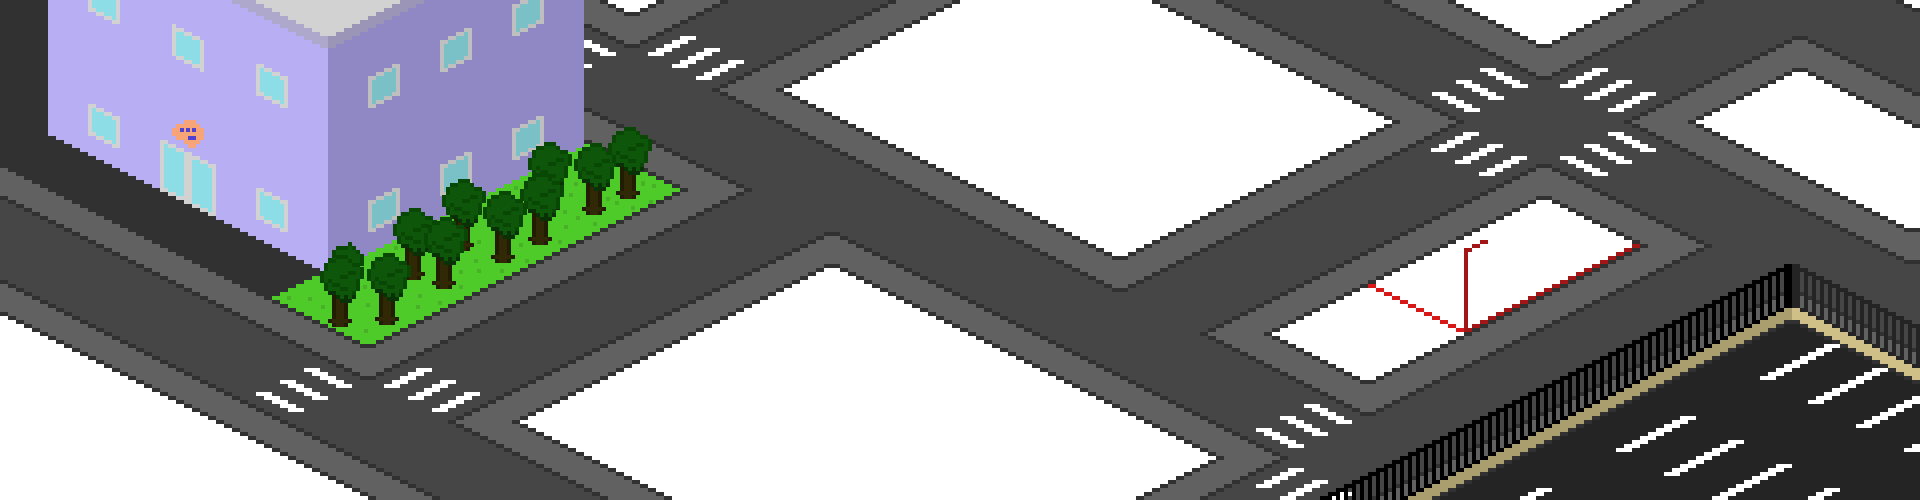
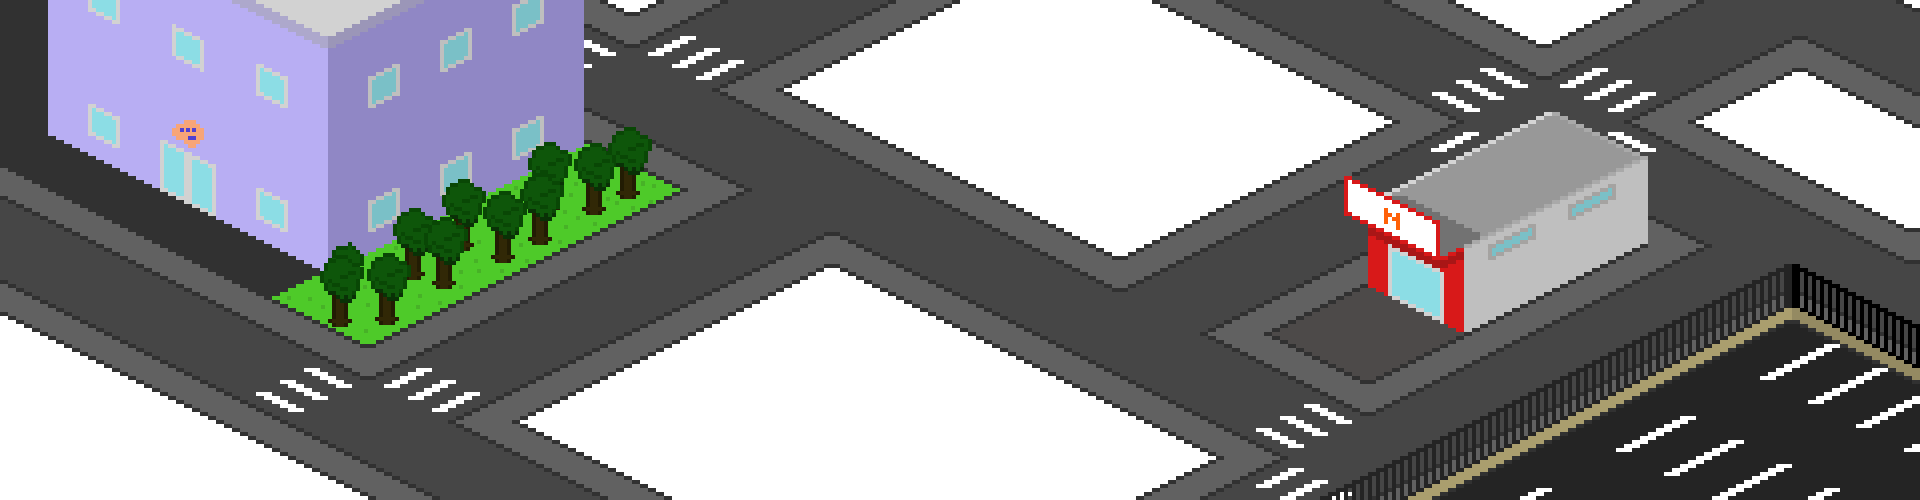
Atualização das imagens parte 2

Changed region(s): [[0.6562, 0.21, 0.875, 0.78], [0.6875, 0.51, 1.0, 1.0]]

diff --git a/index.html b/index.html
@@ -25,34 +25,39 @@
                 </button>
             </div>
         </header>
-
-        <div class="funcoes">
-            <button>
-                <svg width="58" height="58" viewBox="0 0 58 58" fill="none" xmlns="http://www.w3.org/2000/svg">
-                    <path d="M20.4758 48.5842C20.4758 51.7312 16.6492 54.2822 11.9288 54.2822C7.20847 54.2822 3.38184 51.7312 3.38184 48.5842C3.38184 45.4372 7.20847 42.8862 11.9288 42.8862C16.6492 42.8862 20.4758 45.4372 20.4758 48.5842ZM20.4758 48.5842V8.69824L54.6638 3.00024V42.8862M54.6638 42.8862C54.6638 46.0332 50.8373 48.5842 46.1168 48.5842C41.3963 48.5842 37.5698 46.0332 37.5698 42.8862C37.5698 39.7392 41.3963 37.1882 46.1168 37.1882C50.8373 37.1882 54.6638 39.7392 54.6638 42.8862ZM20.4758 20.0942L54.6638 14.3962" stroke="currentColor" stroke-width="6" stroke-linecap="round" stroke-linejoin="round"/>
-                </svg>
-            </button>
-            <button>
-                <svg width="70" height="70" viewBox="0 0 70 70" fill="none" xmlns="http://www.w3.org/2000/svg">
-                    <g clip-path="url(#clip0_23_171)">
-                        <path d="M35.0227 41.2915C32.5547 41.2935 30.1245 40.684 27.9496 39.5174C25.7746 38.3508 23.9226 36.6635 22.5591 34.6062L26.1189 32.24C27.0936 33.7092 28.4168 34.9143 29.9703 35.748C31.5239 36.5817 33.2596 37.0179 35.0227 37.0179C36.7859 37.0179 38.5216 36.5817 40.0751 35.748C41.6287 34.9143 42.9518 33.7092 43.9266 32.24L47.4864 34.6062C46.1229 36.6635 44.2709 38.3508 42.0959 39.5174C39.921 40.684 37.4908 41.2935 35.0227 41.2915Z" fill="currentColor"/>
-                        <path d="M43.5699 17.7873C42.7247 17.7873 41.8984 18.038 41.1957 18.5075C40.4929 18.9771 39.9451 19.6445 39.6217 20.4254C39.2982 21.2063 39.2136 22.0656 39.3785 22.8945C39.5434 23.7235 39.9504 24.485 40.5481 25.0826C41.1457 25.6803 41.9072 26.0873 42.7362 26.2522C43.5651 26.4171 44.4244 26.3325 45.2053 26.009C45.9862 25.6856 46.6536 25.1378 47.1232 24.435C47.5927 23.7323 47.8434 22.906 47.8434 22.0608C47.8489 21.4981 47.7422 20.9399 47.5294 20.4189C47.3166 19.8979 47.002 19.4246 46.6041 19.0266C46.2061 18.6287 45.7328 18.3141 45.2118 18.1013C44.6908 17.8885 44.1326 17.7818 43.5699 17.7873Z" fill="currentColor"/>
-                        <path d="M26.4761 17.7873C25.6309 17.7873 24.8047 18.038 24.1019 18.5075C23.3991 18.9771 22.8514 19.6445 22.5279 20.4254C22.2045 21.2063 22.1199 22.0656 22.2848 22.8945C22.4496 23.7235 22.8567 24.485 23.4543 25.0826C24.052 25.6803 24.8134 26.0873 25.6424 26.2522C26.4714 26.4171 27.3307 26.3325 28.1115 26.009C28.8924 25.6856 29.5598 25.1378 30.0294 24.435C30.499 23.7323 30.7496 22.906 30.7496 22.0608C30.7552 21.4981 30.6484 20.9399 30.4356 20.4189C30.2228 19.8979 29.9082 19.4246 29.5103 19.0266C29.1124 18.6287 28.6391 18.3141 28.1181 18.1013C27.5971 17.8885 27.0389 17.7818 26.4761 17.7873Z" fill="currentColor"/>
-                        <path d="M38.7319 64.7958L35.0229 62.659L43.5699 47.7018H56.3904C56.9518 47.7027 57.508 47.5928 58.0269 47.3784C58.5458 47.164 59.0173 46.8493 59.4143 46.4522C59.8114 46.0552 60.1261 45.5837 60.3405 45.0648C60.5549 44.5459 60.6648 43.9898 60.6639 43.4283V13.5138C60.6648 12.9523 60.5549 12.3962 60.3405 11.8773C60.1261 11.3583 59.8114 10.8869 59.4143 10.4898C59.0173 10.0928 58.5458 9.77807 58.0269 9.56365C57.508 9.34922 56.9518 9.23934 56.3904 9.2403H13.6554C13.0939 9.23934 12.5378 9.34922 12.0189 9.56365C11.5 9.77807 11.0285 10.0928 10.6314 10.4898C10.2344 10.8869 9.91967 11.3583 9.70525 11.8773C9.49082 12.3962 9.38094 12.9523 9.3819 13.5138V43.4283C9.38094 43.9898 9.49082 44.5459 9.70525 45.0648C9.91967 45.5837 10.2344 46.0552 10.6314 46.4522C11.0285 46.8493 11.5 47.164 12.0189 47.3784C12.5378 47.5928 13.0939 47.7027 13.6554 47.7018H32.8861V51.9753H13.6554C12.5329 51.9755 11.4214 51.7545 10.3844 51.3251C9.34731 50.8956 8.40502 50.2661 7.61132 49.4724C6.81762 48.6787 6.18806 47.7364 5.7586 46.6993C5.32914 45.6622 5.1082 44.5507 5.1084 43.4283V13.5138C5.10806 12.3913 5.32891 11.2797 5.75831 10.2426C6.18772 9.20548 6.81728 8.26313 7.611 7.4694C8.40473 6.67567 9.34708 6.04612 10.3842 5.61671C11.4213 5.18731 12.5329 4.96646 13.6554 4.9668H56.3904C57.5129 4.96646 58.6244 5.18731 59.6616 5.61671C60.6987 6.04612 61.641 6.67567 62.4348 7.4694C63.2285 8.26313 63.858 9.20548 64.2875 10.2426C64.7169 11.2797 64.9377 12.3913 64.9374 13.5138V43.4283C64.9376 44.5507 64.7166 45.6622 64.2872 46.6993C63.8577 47.7364 63.2282 48.6787 62.4345 49.4724C61.6408 50.2661 60.6985 50.8956 59.6614 51.3251C58.6243 51.7545 57.5128 51.9755 56.3904 51.9753H46.0583L38.7319 64.7958Z" fill="currentColor"/>
-                    </g>
-                    <defs>
-                        <clipPath id="clip0_23_171">
-                            <rect width="68.376" height="68.376" fill="white" transform="translate(0.834961 0.693359)"/>
-                        </clipPath>
-                    </defs>
-                </svg>
-            </button>
-            <button>
-                <svg width="58" height="62" viewBox="0 0 58 62" fill="none" xmlns="http://www.w3.org/2000/svg">
-                    <path d="M39.0498 0.710693L35.5943 3.22304L53.4896 27.8541C53.3944 29.1283 52.7569 30.3087 51.6992 31.0467L45.7063 35.2325C43.811 36.5573 41.2379 36.148 39.8469 34.3019L27.4563 17.8715L24.0425 20.4422L36.4331 36.8768C38.1169 39.1076 40.6648 40.2865 43.2524 40.2865C44.9447 40.2865 46.6561 39.781 48.1519 38.734L54.1448 34.5481C56.4332 32.952 57.8006 30.3317 57.8006 27.5411V12.7466H53.5271V20.63L39.0498 0.710693ZM32.6104 2.75146L29.1548 5.2638L40.3644 20.6926L43.8199 18.1803L32.6104 2.75146ZM28.6791 8.24774L25.2194 10.7601L35.106 24.3652L38.5615 21.8528L28.6791 8.24774ZM22.7154 30.2371L20.2364 33.7135L26.776 38.3876H2.24515V42.6611H32.698C33.6916 43.4674 34.2964 44.6719 34.2964 45.9622V53.3448C34.2964 55.7017 32.3797 57.6183 30.0229 57.6183H8.65539V61.8918H30.0229C34.7366 61.8918 38.5699 58.0585 38.5699 53.3448V45.9622C38.5699 43.2079 37.2306 40.6057 34.9892 39.0052L22.7154 30.2371ZM0.108398 44.7978V49.0713H19.3391V44.7978H0.108398ZM2.24515 51.2081V55.4816H19.3391V51.2081H2.24515Z" fill="currentColor"/>
-                </svg>
-            </button>
+        
+        <div class="alinhamento">
+            <div class="funcoes">
+                <button>
+                    <svg width="58" height="58" viewBox="0 0 58 58" fill="none" xmlns="http://www.w3.org/2000/svg">
+                        <path d="M20.4758 48.5842C20.4758 51.7312 16.6492 54.2822 11.9288 54.2822C7.20847 54.2822 3.38184 51.7312 3.38184 48.5842C3.38184 45.4372 7.20847 42.8862 11.9288 42.8862C16.6492 42.8862 20.4758 45.4372 20.4758 48.5842ZM20.4758 48.5842V8.69824L54.6638 3.00024V42.8862M54.6638 42.8862C54.6638 46.0332 50.8373 48.5842 46.1168 48.5842C41.3963 48.5842 37.5698 46.0332 37.5698 42.8862C37.5698 39.7392 41.3963 37.1882 46.1168 37.1882C50.8373 37.1882 54.6638 39.7392 54.6638 42.8862ZM20.4758 20.0942L54.6638 14.3962" stroke="currentColor" stroke-width="6" stroke-linecap="round" stroke-linejoin="round"/>
+                    </svg>
+                </button>
+                <button>
+                    <svg width="70" height="70" viewBox="0 0 70 70" fill="none" xmlns="http://www.w3.org/2000/svg">
+                        <g clip-path="url(#clip0_23_171)">
+                            <path d="M35.0227 41.2915C32.5547 41.2935 30.1245 40.684 27.9496 39.5174C25.7746 38.3508 23.9226 36.6635 22.5591 34.6062L26.1189 32.24C27.0936 33.7092 28.4168 34.9143 29.9703 35.748C31.5239 36.5817 33.2596 37.0179 35.0227 37.0179C36.7859 37.0179 38.5216 36.5817 40.0751 35.748C41.6287 34.9143 42.9518 33.7092 43.9266 32.24L47.4864 34.6062C46.1229 36.6635 44.2709 38.3508 42.0959 39.5174C39.921 40.684 37.4908 41.2935 35.0227 41.2915Z" fill="currentColor"/>
+                            <path d="M43.5699 17.7873C42.7247 17.7873 41.8984 18.038 41.1957 18.5075C40.4929 18.9771 39.9451 19.6445 39.6217 20.4254C39.2982 21.2063 39.2136 22.0656 39.3785 22.8945C39.5434 23.7235 39.9504 24.485 40.5481 25.0826C41.1457 25.6803 41.9072 26.0873 42.7362 26.2522C43.5651 26.4171 44.4244 26.3325 45.2053 26.009C45.9862 25.6856 46.6536 25.1378 47.1232 24.435C47.5927 23.7323 47.8434 22.906 47.8434 22.0608C47.8489 21.4981 47.7422 20.9399 47.5294 20.4189C47.3166 19.8979 47.002 19.4246 46.6041 19.0266C46.2061 18.6287 45.7328 18.3141 45.2118 18.1013C44.6908 17.8885 44.1326 17.7818 43.5699 17.7873Z" fill="currentColor"/>
+                            <path d="M26.4761 17.7873C25.6309 17.7873 24.8047 18.038 24.1019 18.5075C23.3991 18.9771 22.8514 19.6445 22.5279 20.4254C22.2045 21.2063 22.1199 22.0656 22.2848 22.8945C22.4496 23.7235 22.8567 24.485 23.4543 25.0826C24.052 25.6803 24.8134 26.0873 25.6424 26.2522C26.4714 26.4171 27.3307 26.3325 28.1115 26.009C28.8924 25.6856 29.5598 25.1378 30.0294 24.435C30.499 23.7323 30.7496 22.906 30.7496 22.0608C30.7552 21.4981 30.6484 20.9399 30.4356 20.4189C30.2228 19.8979 29.9082 19.4246 29.5103 19.0266C29.1124 18.6287 28.6391 18.3141 28.1181 18.1013C27.5971 17.8885 27.0389 17.7818 26.4761 17.7873Z" fill="currentColor"/>
+                            <path d="M38.7319 64.7958L35.0229 62.659L43.5699 47.7018H56.3904C56.9518 47.7027 57.508 47.5928 58.0269 47.3784C58.5458 47.164 59.0173 46.8493 59.4143 46.4522C59.8114 46.0552 60.1261 45.5837 60.3405 45.0648C60.5549 44.5459 60.6648 43.9898 60.6639 43.4283V13.5138C60.6648 12.9523 60.5549 12.3962 60.3405 11.8773C60.1261 11.3583 59.8114 10.8869 59.4143 10.4898C59.0173 10.0928 58.5458 9.77807 58.0269 9.56365C57.508 9.34922 56.9518 9.23934 56.3904 9.2403H13.6554C13.0939 9.23934 12.5378 9.34922 12.0189 9.56365C11.5 9.77807 11.0285 10.0928 10.6314 10.4898C10.2344 10.8869 9.91967 11.3583 9.70525 11.8773C9.49082 12.3962 9.38094 12.9523 9.3819 13.5138V43.4283C9.38094 43.9898 9.49082 44.5459 9.70525 45.0648C9.91967 45.5837 10.2344 46.0552 10.6314 46.4522C11.0285 46.8493 11.5 47.164 12.0189 47.3784C12.5378 47.5928 13.0939 47.7027 13.6554 47.7018H32.8861V51.9753H13.6554C12.5329 51.9755 11.4214 51.7545 10.3844 51.3251C9.34731 50.8956 8.40502 50.2661 7.61132 49.4724C6.81762 48.6787 6.18806 47.7364 5.7586 46.6993C5.32914 45.6622 5.1082 44.5507 5.1084 43.4283V13.5138C5.10806 12.3913 5.32891 11.2797 5.75831 10.2426C6.18772 9.20548 6.81728 8.26313 7.611 7.4694C8.40473 6.67567 9.34708 6.04612 10.3842 5.61671C11.4213 5.18731 12.5329 4.96646 13.6554 4.9668H56.3904C57.5129 4.96646 58.6244 5.18731 59.6616 5.61671C60.6987 6.04612 61.641 6.67567 62.4348 7.4694C63.2285 8.26313 63.858 9.20548 64.2875 10.2426C64.7169 11.2797 64.9377 12.3913 64.9374 13.5138V43.4283C64.9376 44.5507 64.7166 45.6622 64.2872 46.6993C63.8577 47.7364 63.2282 48.6787 62.4345 49.4724C61.6408 50.2661 60.6985 50.8956 59.6614 51.3251C58.6243 51.7545 57.5128 51.9755 56.3904 51.9753H46.0583L38.7319 64.7958Z" fill="currentColor"/>
+                        </g>
+                        <defs>
+                            <clipPath id="clip0_23_171">
+                                <rect width="68.376" height="68.376" fill="white" transform="translate(0.834961 0.693359)"/>
+                            </clipPath>
+                        </defs>
+                    </svg>
+                </button>
+                <button>
+                    <svg width="58" height="62" viewBox="0 0 58 62" fill="none" xmlns="http://www.w3.org/2000/svg">
+                        <path d="M39.0498 0.710693L35.5943 3.22304L53.4896 27.8541C53.3944 29.1283 52.7569 30.3087 51.6992 31.0467L45.7063 35.2325C43.811 36.5573 41.2379 36.148 39.8469 34.3019L27.4563 17.8715L24.0425 20.4422L36.4331 36.8768C38.1169 39.1076 40.6648 40.2865 43.2524 40.2865C44.9447 40.2865 46.6561 39.781 48.1519 38.734L54.1448 34.5481C56.4332 32.952 57.8006 30.3317 57.8006 27.5411V12.7466H53.5271V20.63L39.0498 0.710693ZM32.6104 2.75146L29.1548 5.2638L40.3644 20.6926L43.8199 18.1803L32.6104 2.75146ZM28.6791 8.24774L25.2194 10.7601L35.106 24.3652L38.5615 21.8528L28.6791 8.24774ZM22.7154 30.2371L20.2364 33.7135L26.776 38.3876H2.24515V42.6611H32.698C33.6916 43.4674 34.2964 44.6719 34.2964 45.9622V53.3448C34.2964 55.7017 32.3797 57.6183 30.0229 57.6183H8.65539V61.8918H30.0229C34.7366 61.8918 38.5699 58.0585 38.5699 53.3448V45.9622C38.5699 43.2079 37.2306 40.6057 34.9892 39.0052L22.7154 30.2371ZM0.108398 44.7978V49.0713H19.3391V44.7978H0.108398ZM2.24515 51.2081V55.4816H19.3391V51.2081H2.24515Z" fill="currentColor"/>
+                    </svg>
+                </button>
+            </div>
         </div>
+        
+
+        <div class="espaco-invisivel"></div>
 
         <div class="banner">
             <div class="container-grid conteudo-banner">
@@ -98,7 +103,7 @@
                     </div>
     
                     <div class="card">
-                        <img src="https://unsplash.it/600/400" alt="Imagem do Mercado Nitsch">
+                        <img src="img/mercado-nitsch.png" alt="Imagem do Mercado Nitsch">
                         <h3>Mercado Nitsch</h3>
                         <p>O mercado Nitsch queria encontrar uma forma de transformar as compras feitas pelos clientes em algo mais recompensador. A empresa de gamificação sugeriu um sistema...</p>
                         <button>Ler mais</button>

diff --git a/style.css b/style.css
@@ -43,8 +43,15 @@ body {
     background-color: var(--azul-escuro-gameinova);
 }
 
+.alinhamento {
+    width: 100%;
+    height: 100%;
+    display: flex;
+    justify-content: flex-end;
+}
+
 .funcoes {
-    margin-top: 20vh;
+    margin-top: 70vh;
     width: 70px;
     height: 200px;
     display: flex;
@@ -86,6 +93,8 @@ header {
     height: 165px;
     width: 100%;
     background-color: var(--azul-maisescuro-gameinova);
+    position: fixed;
+    z-index: 2;
 }
 
 header button {
@@ -122,6 +131,10 @@ header img {
 .menu a:hover {
     color: var(--laranja-escuro-gameinova);
     text-decoration-color: var(--laranja-escuro-gameinova);
+}
+
+.espaco-invisivel {
+    height: 165px;
 }
 
 .banner {
@@ -635,7 +648,7 @@ footer .container-grid {
     }
 
     header svg {
-        fill: var(--branco-gameinova);
+        fill: var(--laranja-gameinova);
     }
 
     nav.menu {
@@ -653,7 +666,7 @@ footer .container-grid {
 }
 
 @media screen and (max-width: 1100px) {
-    header {
+    header, .espaco-invisivel {
         height: 140px;
     }
     
@@ -835,8 +848,12 @@ footer .container-grid {
 }
 
 @media screen and (max-width: 800px) {
-    header {
+    header, .espaco-invisivel {
         height: 100px;
+    }
+
+    header button {
+        width: 40px;
     }
     
     header img {
@@ -990,7 +1007,7 @@ footer .container-grid {
 }
 
 @media screen and (max-width: 510px) {
-    header {
+    header, .espaco-invisivel {
         height: 80px;
     }
     
